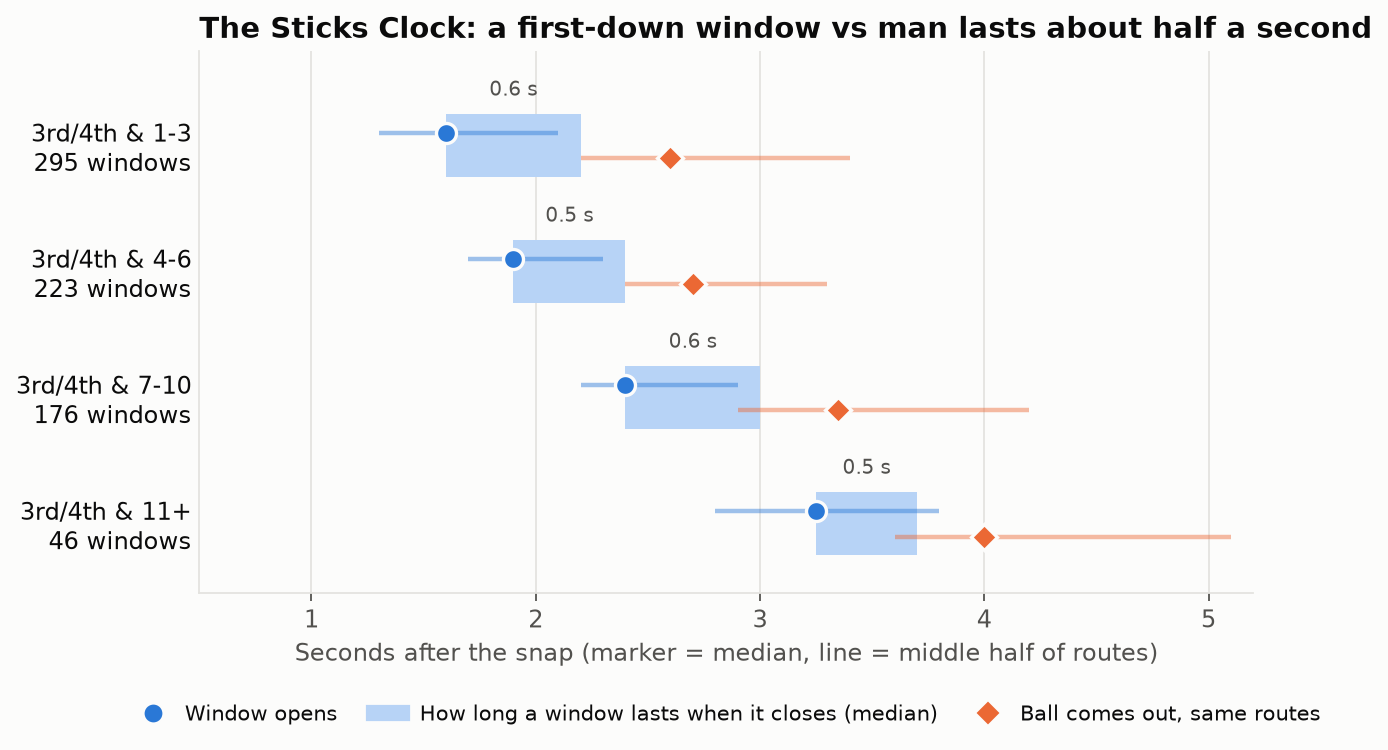
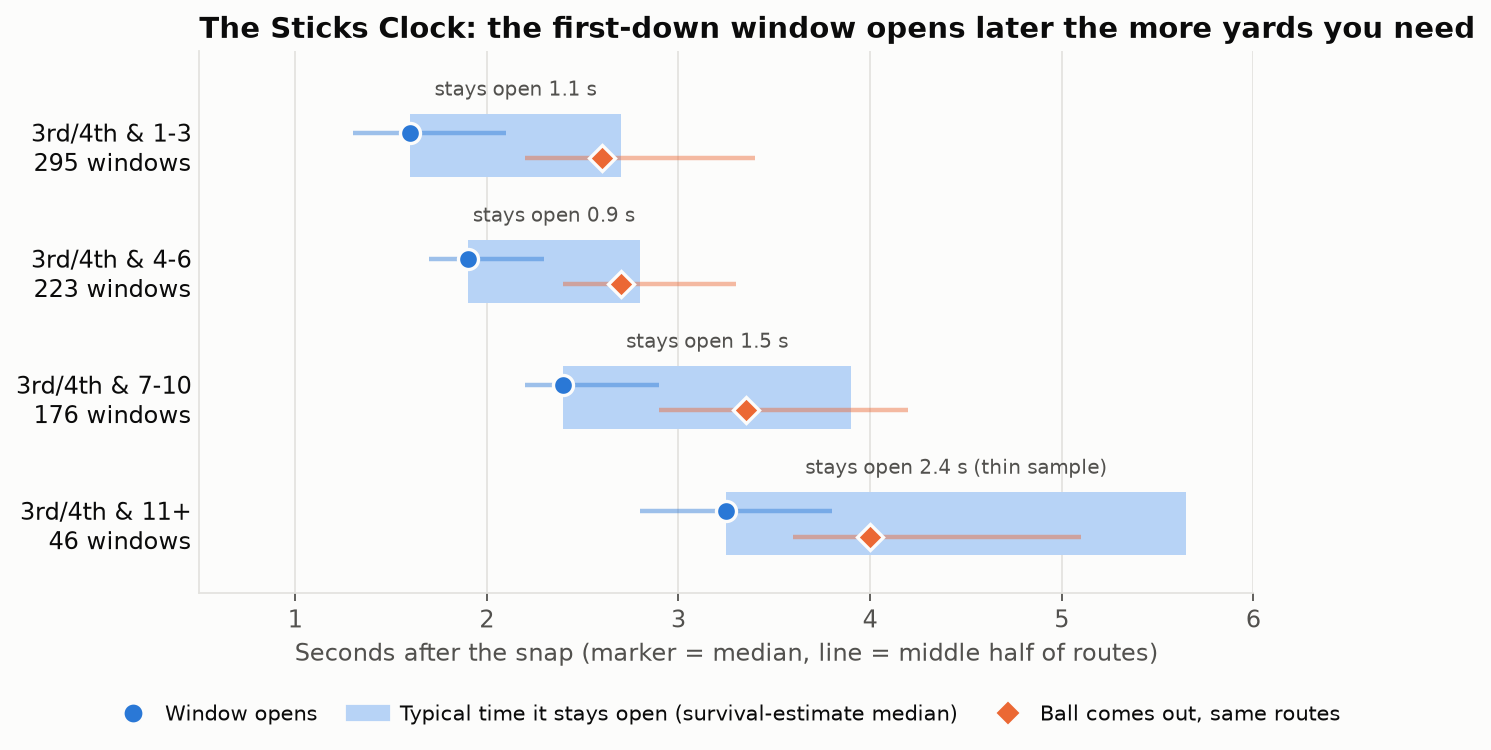
Replace closed-window duration with a Kaplan-Meier estimate

diff --git a/make_report.py b/make_report.py
@@ -16,6 +16,7 @@ import pandas as pd
 OUT = Path("outputs")
 KEYS = ["gameId", "playId"]
 OPEN_YARDS = 2.0      # separation from the nearest coverage defender at release
+THIN_WINDOWS = 50     # yards-to-go rows with fewer windows are flagged as thin
 MIN_ROUTES = 50       # man-coverage routes needed to appear in the profile chart
 
 INK, MUTED, GRID, SURFACE = "#0b0b0b", "#52514e", "#e4e3df", "#fcfcfb"
@@ -134,6 +135,23 @@ def third_down(routes: pd.DataFrame) -> dict:
 
 
 # --------------------------------------------------------- sticks clock
+def km_duration(win: pd.DataFrame) -> dict:
+    """Kaplan-Meier estimate of how long a window stays open.
+    The throw ends the tracking, so a window still open at the release frame is
+    censored: we know only that it lasted at least that long."""
+    dur = win.window_dur.round(1).values
+    ended = (win.window_open_t + win.window_dur <= win.time_to_throw + 1e-6).values
+    surv, curve = 1.0, {}
+    for x in np.unique(dur):
+        at_risk = (dur >= x).sum()
+        surv *= 1 - ((dur == x) & ended).sum() / at_risk
+        curve[float(x)] = surv
+    median = next((x for x, s in curve.items() if s <= 0.5), None)   # None = over half outlast the data
+    still_open = lambda x: round(min([s for t, s in curve.items() if t <= x], default=1.0), 3)
+    return {"windows": len(win), "ended_before_throw": int(ended.sum()), "median_s": median,
+            "share_lasting_beyond_0.5s": still_open(0.5), "share_lasting_beyond_1.0s": still_open(1.0)}
+
+
 def sticks_clock(routes: pd.DataFrame) -> dict:
     """When does a first-down window open, how long does it last, and when is the ball thrown?
     A window = 3+ consecutive frames open (2+ yards of separation) at or past the sticks."""
@@ -150,28 +168,29 @@ def sticks_clock(routes: pd.DataFrame) -> dict:
         c = g[g.open_at_throw == 0]
         rows.append({"to_go": b, "routes": int((late.bucket == b).sum()), "windows": len(g),
                      "open_t": q(g.window_open_t), "throw_t": q(g.time_to_throw),
-                     "closed_windows": len(c), "closed_dur": q(c.window_dur),
-                     "share_closed": round(len(c) / len(g), 3)})
+                     "closed_windows": len(c), "share_closed": round(len(c) / len(g), 3),
+                     "duration": km_duration(g), "thin_sample": len(g) < THIN_WINDOWS})
 
     fig, ax = plt.subplots(figsize=(8.5, 4.4))
     for y, r in enumerate(rows):
-        o, t, d = r["open_t"], r["throw_t"], r["closed_dur"][1]
+        o, t, d = r["open_t"], r["throw_t"], r["duration"]["median_s"]
         ax.barh(y, d, left=o[1], height=0.5, color="#b7d3f6", lw=0)
-        ax.text(o[1] + d / 2, y - 0.36, f"{d:.1f} s", ha="center", va="bottom", fontsize=9, color=MUTED)
+        ax.text(o[1] + d / 2, y - 0.36, f"stays open {d:.1f} s" + (" (thin sample)" if r["thin_sample"] else ""),
+                ha="center", va="bottom", fontsize=9, color=MUTED)
         ax.hlines(y - 0.1, o[0], o[2], color=BLUE, lw=2, alpha=0.45)
         ax.plot(o[1], y - 0.1, "o", ms=9, color=BLUE, mec=SURFACE, mew=1.5)
         ax.hlines(y + 0.1, t[0], t[2], color=ORANGE, lw=2, alpha=0.45)
         ax.plot(t[1], y + 0.1, "D", ms=8, color=ORANGE, mec=SURFACE, mew=1.5)
     ax.set_yticks(range(len(rows)), [f"3rd/4th & {r['to_go']}\n{r['windows']} windows" for r in rows], color=INK)
-    ax.set_ylim(len(rows) - 0.45, -0.75); ax.set_xlim(0.5, 5.2)
+    ax.set_ylim(len(rows) - 0.45, -0.75); ax.set_xlim(0.5, 6)
     ax.tick_params(axis="y", length=0); ax.grid(axis="y", visible=False)
     ax.set_xlabel("Seconds after the snap (marker = median, line = middle half of routes)")
     handles = [plt.Line2D([], [], marker="o", ls="", ms=9, color=BLUE, mec=SURFACE, label="Window opens"),
-               plt.Rectangle((0, 0), 1, 1, color="#b7d3f6", label="How long a window lasts when it closes (median)"),
+               plt.Rectangle((0, 0), 1, 1, color="#b7d3f6", label="Typical time it stays open (survival-estimate median)"),
                plt.Line2D([], [], marker="D", ls="", ms=8, color=ORANGE, mec=SURFACE, label="Ball comes out, same routes")]
     ax.legend(handles=handles, loc="upper center", bbox_to_anchor=(0.5, -0.17), ncol=3, frameon=False,
               fontsize=9.5, columnspacing=1.4, handletextpad=0.5)
-    ax.set_title("The Sticks Clock: a first-down window vs man lasts about half a second")
+    ax.set_title("The Sticks Clock: the first-down window opens later the more yards you need")
     save(fig, "fig0_sticks_clock.png")
 
     t = late[late.targeted == 1]
@@ -183,7 +202,8 @@ def sticks_clock(routes: pd.DataFrame) -> dict:
             "route_states": late.state.value_counts().to_dict(),
             "window_opens_s_q25_med_q75": q(win.window_open_t),
             "throw_s_same_routes_q25_med_q75": q(win.time_to_throw),
-            "closed_window_duration_s_q25_med_q75": q(closed.window_dur),
+            "window_duration_km": {"all": km_duration(win), "not_targeted": km_duration(win[win.targeted == 0]),
+                                   "targeted": km_duration(win[win.targeted == 1])},
             "first_down_rate_by_target_state": by_state["mean"].round(3).to_dict(),
             "targets_by_state": by_state["size"].to_dict(),
             "first_down_rate_by_seconds_held": {str(k): [round(v["mean"], 3), int(v["size"])] for k, v in hold.iterrows()},

diff --git a/README.md b/README.md
@@ -2,14 +2,14 @@
 
 **On 3rd down against man coverage, when does a first-down throw come open, and how long does it stay open?**
 
-Using player tracking for every WR and TE route on 3rd and 4th down against man coverage in Weeks 1–8 of 2021 (3,656 routes, 944 plays), we timed each "window": at least 0.3 seconds in which the receiver is 2+ yards from the nearest coverage defender and at or past the first-down line. A window opened on only 1 route in 5, typically 2.1 seconds after the snap (1.6 s with 1–3 yards to go, about 3.3 s with 11+), and the windows that closed lasted about half a second; 269 of 740 (36%) had already closed when the ball came out. Targets still open at the throw gained the first down 66% of the time, against 49% for targets whose window had closed (only 53 targets) and 40% for targets who were never open. A coordinator or quarterback coach can use the clock for each distance to time route depth and the quarterback's drop to when the window is there, and the matchup grid and receiver profiles below to choose who to isolate. Tracking ends at the throw, so windows that would have opened later are invisible and windows still open at the throw are cut short; defenders are inferred from position rather than assignment, and the clock is a league-level finding, not a ranking of players.
+On 3rd and 4th down against man coverage, the first-down window opens later the more yards the offense needs (a median 1.6 seconds after the snap with 1–3 to go, 1.9 with 4–6, 2.4 with 7–10 and about 3.3 with 11+), and 36% of windows (269 of 740) had closed before the ball came out. We timed every WR and TE route on those downs in Weeks 1–8 of 2021 (3,656 routes, 944 plays) from player tracking, where a window is at least 0.3 seconds with the receiver 2+ yards from the nearest coverage defender and at or past the first-down line; one opened on only 1 route in 5. Once open, a window typically stays open about 1.2 seconds (a survival estimate, because the throw cuts off windows that are still open), and targets still open at the throw gained the first down 66% of the time, against 49% for targets whose window had closed (only 53 targets) and 40% for targets who were never open. A coordinator or quarterback coach can use the clock for each distance to time route depth and the quarterback's drop to when the window is there, and the matchup grid and receiver profiles below to choose who to isolate. Tracking ends at the throw, so windows that would have opened later are invisible and opening times lean early; defenders are inferred from position rather than assignment, and the clock is a league-level finding, not a ranking of players.
 
 ## What a coach sees
 
-**1. The Sticks Clock: the window opens later the more yards you need, and lasts about half a second.**
-On the routes where a window opened, the ball came out a median 2.9 seconds after the snap, about 0.8 seconds after the window opened at 2.1. Windows that closed before the throw lasted a median 0.5 seconds (middle half: 0.4 to 0.8). By distance, the window opened and the ball came out at 1.6 and 2.6 seconds with 1–3 to go, 1.9 and 2.7 with 4–6, 2.4 and 3.4 with 7–10, and 3.3 and 4.0 with 11+ (only 46 windows). Opening times lean early, because a window that would have opened after the throw is never seen.
+**1. The Sticks Clock: the window opens later the more yards you need.**
+On the routes where a window opened, the ball came out a median 2.9 seconds after the snap, about 0.8 seconds after the window opened at 2.1. Once open, a window typically stays open 1.2 seconds (Kaplan-Meier median; 1.1 on routes that were not targeted), and 78% last beyond 0.5 seconds. By distance, the window opened and the ball came out at 1.6 and 2.6 seconds with 1–3 to go, 1.9 and 2.7 with 4–6, 2.4 and 3.4 with 7–10, and 3.3 and 4.0 with 11+. The estimated time a window stays open is 1.1, 0.9, 1.5 and 2.4 seconds for the same four distances; the 11+ row has only 46 windows, so treat it as thin. Opening times lean early, because a window that would have opened after the throw is never seen.
 
-![The Sticks Clock: when windows open, how long closed windows last, and when the ball comes out, by yards to go](outputs/fig0_sticks_clock.png)
+![The Sticks Clock: when windows open, how long they typically stay open, and when the ball comes out, by yards to go](outputs/fig0_sticks_clock.png)
 
 **2. Two yards at release is the line between a bad throw and a good one.**
 Across all downs against man, completion rate climbs steeply up to about 2 yards of separation and slowly after it: a target with 2+ yards is completed 69% of the time for 9.1 yards, a target without, 41% for 6.9. The curve crosses the average throw against man (54%) just before 2 yards, so we call 2+ yards "open": every half-yard band above it beats the average and every band below 1.5 falls short. The gap between open and covered is 28–31 points whether the line is drawn at 1.5, 2, 2.5 or 3 yards, so the finding does not depend on the exact cut.
@@ -46,7 +46,7 @@ The raw tracking data is not in this repo. `outputs/routes_man.csv` is the deriv
 - **Release frame:** the first `pass_forward` or `autoevent_passforward` event; the snap is the first `ball_snap` or `autoevent_ballsnap`. Coordinates are flipped by `playDirection`.
 - **Open:** 2+ yards from the nearest player PFF tagged as `Coverage`.
 - **Past the sticks:** the receiver's depth beyond the ball's position at the snap is at least `yardsToGo`.
-- **Window:** 3 or more consecutive frames (0.3 s), between snap and release, in which a WR or TE is both open and past the sticks. Opening time and duration come from the first window on the route; a window counts as closed if the receiver is no longer open past the sticks at the release frame.
+- **Window:** 3 or more consecutive frames (0.3 s), between snap and release, in which a WR or TE is both open and past the sticks. Opening time and duration come from the first window on the route; a window counts as closed if the receiver is no longer open past the sticks at the release frame. Typical duration is a Kaplan-Meier median in which a first window still open at the release frame is treated as censored.
 - **Plays:** PFF coverage type `Man`, pass thrown (complete, incomplete or intercepted), target found in the play description.
 - **Target:** parsed from `playDescription`, because there is no target column. It was found on 94.7% of thrown plays.
 - **Profiles:** each receiver's open rate is pulled toward his position's average in proportion to how few routes he has (empirical Bayes), with a 90% interval.
@@ -54,7 +54,8 @@ The raw tracking data is not in this repo. `outputs/routes_man.csv` is the deriv
 ## Assumptions and limitations
 
 - Tracking stops at the throw. Windows that open after the throw are invisible, so opening times lean early.
-- Windows still open at the throw are cut off, so duration comes only from the 269 windows that closed.
+- Durations use a survival estimate because the throw cuts off windows still open.
+- The throw is not independent of the window, since quarterbacks tend to throw to open receivers, which is why the figure for non-targeted routes (1.1 seconds) is reported too.
 - The "window closed before the throw" group is 53 targets, so its 49% first-down rate is a rough number.
 - We make no claim about how long the quarterback should hold the ball. First-down rate is 55% on throws inside 2 seconds and 41–49% after, but longer holds also come with longer distances, and we have not separated the two.
 - The clock is league-level. No receiver has more than 41 third- or fourth-down man routes, and the per-player open-past-the-sticks rate does not hold up between Weeks 1–4 and 5–8 (r = 0.17), so there is no player ranking.
